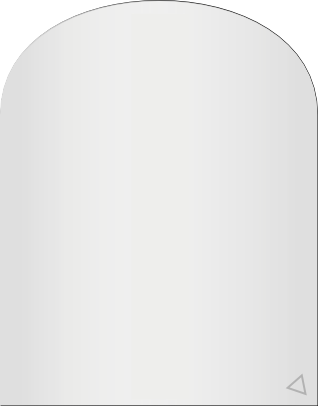
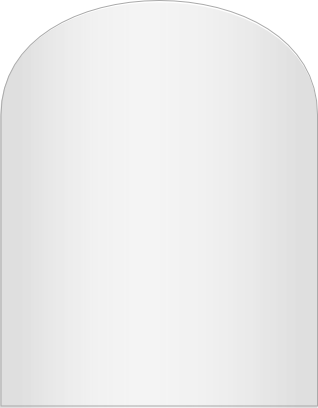
Finish all the ending sequence.

diff --git a/foreverend/levels/level3.py b/foreverend/levels/level3.py
@@ -2,8 +2,9 @@ import math
 
 import pygame
 
-from foreverend.effects import ScreenFlashEffect, FloatEffect, MoveEffect, \
-                               ShakeEffect, SlideHideEffect, SlideShowEffect
+from foreverend.effects import FloatEffect, MoveEffect, ScreenFadeEffect, \
+                               ScreenFlashEffect, ShakeEffect, \
+                               SlideHideEffect, SlideShowEffect
 from foreverend.eventbox import EventBox
 from foreverend.levels.base import Area, Level, TimePeriod
 from foreverend.particles import ExplosionParticleSystem
@@ -244,21 +245,21 @@ class Outside300NE(Level3OutsideArea):
                          floor.rect.top - monolith.rect.height)
 
         # Container
-        container_base = Sprite('300ne/container_base')
-        self.main_layer.add(container_base)
-        container_base.move_to(
-            floor.rect.right - container_base.rect.width - 400,
-            floor.rect.top - container_base.rect.height)
+        self.container_base = Sprite('300ne/container_base')
+        self.main_layer.add(self.container_base)
+        self.container_base.move_to(
+            floor.rect.right - self.container_base.rect.width - 400,
+            floor.rect.top - self.container_base.rect.height)
 
         self.container_bg = Sprite('300ne/container_bg')
         self.bg_layer.add(self.container_bg)
         self.container_bg.move_to(
-            container_base.rect.left +
-            (container_base.rect.width - self.container_bg.rect.width) / 2,
-            container_base.rect.top - self.container_bg.rect.height)
+            self.container_base.rect.left +
+            (self.container_base.rect.width - self.container_bg.rect.width) / 2,
+            self.container_base.rect.top - self.container_bg.rect.height)
 
-        self.level.add_artifact(self, container_base.rect.centerx,
-                                container_base.rect.top)
+        self.level.add_artifact(self, self.container_base.rect.centerx,
+                                self.container_base.rect.top)
 
         self.container = Sprite('300ne/container')
         self.main_layer.add(self.container)
@@ -285,7 +286,8 @@ class Outside300NE(Level3OutsideArea):
         self.main_layer.add(self.level.triangle_key)
         self.level.triangle_key.move_to(
             self.container.rect.right + 100,
-            container_base.rect.bottom - self.level.triangle_key.rect.height)
+            self.container_base.rect.bottom -
+            self.level.triangle_key.rect.height)
 
     def start_end_sequence(self, *args, **kwargs):
         if self.in_end_sequence:
@@ -352,7 +354,8 @@ class Outside300NE(Level3OutsideArea):
         show_effect.timer_ms = 30
         show_effect.total_time_ms = 500
         show_effect.stopped.connect(self.on_container_added)
-        show_effect.start()
+        timer = Timer(700, show_effect.start, one_shot=True)
+        timer.start()
 
     def on_container_added(self):
         player = self.level.engine.player
@@ -405,17 +408,22 @@ class Outside300NE(Level3OutsideArea):
         self.container.rect.bottom = bottom
 
         self.level.artifact.remove()
-        player = self.level.engine.player
-        player.collidable = False
-        player.obey_gravity = False
-        player.velocity = (0, 0)
-        player.direction = Direction.LEFT
-        player.name = 'probe_large'
-        player.update_image()
-        player.move_to(
+        self.level.engine.player.remove()
+
+        self.large_probe = Sprite('probe_large')
+        self.main_layer.add(self.large_probe)
+        self.large_probe.collidable = False
+        self.large_probe.obey_gravity = False
+        self.large_probe.move_to(
             self.container.rect.left +
-            (self.container.rect.width - player.rect.width) / 2,
-            self.container.rect.bottom - 2 * player.rect.height)
+            (self.container.rect.width - self.large_probe.rect.width) / 2,
+            self.container.rect.bottom - 2 * self.large_probe.rect.height)
+
+        # We're going to force updates to get things in the right order.
+        self.container.hide()
+        self.container.show()
+        self.container_base.hide()
+        self.container_base.show()
 
     def prepare_launch(self):
         player = self.level.engine.player
@@ -428,28 +436,34 @@ class Outside300NE(Level3OutsideArea):
         self.explosion.min_angle = -(4 * math.pi) / 3
         self.explosion.max_angle = -(5 * math.pi) / 3
         self.explosion.repeat = True
-        self.explosion.start(self.container.rect.centerx, player.rect.bottom)
+        self.explosion.start(self.container.rect.centerx,
+                             self.large_probe.rect.bottom)
 
-        shake_effect = ShakeEffect(player)
+        shake_effect = ShakeEffect(self.large_probe)
         shake_effect.start()
 
-        timer = Timer(3000, self.launch_probe)
+        timer = Timer(3000, self.launch_probe, one_shot=True)
         timer.start()
 
     def launch_probe(self):
-        player = self.level.engine.player
-        player.velocity = (0, -15)
-        player.moved.connect(self.move_explosion)
+        self.large_probe.velocity = (0, -15)
+        self.large_probe.moved.connect(self.move_explosion)
 
-        timer = Timer(5000, self.probe_launched)
+        timer = Timer(4000, self.probe_launched, one_shot=True)
         timer.start()
 
     def move_explosion(self, dx, dy):
-        player = self.level.engine.player
-        self.explosion.pos = (self.container.rect.centerx, player.rect.bottom)
+        self.explosion.pos = (self.container.rect.centerx,
+                              self.large_probe.rect.bottom)
 
     def probe_launched(self):
-        self.level.engine.show_end_scene()
+        self.explosion.stop()
+        screen_flash_effect = ScreenFadeEffect(self.fg_layer,
+                                               self.level.engine.camera.rect)
+        screen_flash_effect.fade_time_ms = 3000
+        screen_flash_effect.stopped.connect(
+            self.level.engine.show_end_scene)
+        screen_flash_effect.start()
 
 
 class BlueBoxArea(Area):
@@ -535,5 +549,5 @@ class Level3(Level):
             Outside40000000AD(self),
             BlueBoxArea(self),
         ]))
-        self.add(TimePeriod('1NE AD', [Outside1NE(self)]))
-        self.add(TimePeriod('300NE AD', [Outside300NE(self)]))
+        self.add(TimePeriod('1NE', [Outside1NE(self)]))
+        self.add(TimePeriod('300NE', [Outside300NE(self)]))

diff --git a/foreverend/effects.py b/foreverend/effects.py
@@ -46,12 +46,46 @@ class ScreenEffect(Effect):
         self.sprite = Sprite(None)
         self.sprite.image = pygame.Surface(rect.size).convert_alpha()
         self.sprite.move_to(*rect.topleft)
-        layer.add(self.sprite)
+
+        if layer:
+            layer.add(self.sprite)
+
+
+class ScreenFadeEffect(ScreenEffect):
+    def __init__(self, *args, **kwargs):
+        super(ScreenFadeEffect, self).__init__(*args, **kwargs)
+        self.color = (0, 0, 0)
+        self.fade_from_alpha = 0
+        self.fade_to_alpha = 255
+        self.fade_time_ms = 500
+        self.timer_ms = 30
+
+    def pre_start(self):
+        self.sprite.show()
+        self.alpha = self.fade_from_alpha
+        self.alpha_delta = ((self.fade_to_alpha - self.fade_from_alpha) /
+                            (self.fade_time_ms / self.timer_ms))
+        self.sprite.image.fill(
+            (self.color[0], self.color[1], self.color[2], self.alpha))
+
+    def on_tick(self):
+        self.sprite.image.fill(
+            (self.color[0], self.color[1], self.color[2], self.alpha))
+
+        self.alpha += self.alpha_delta
+
+        if ((self.fade_from_alpha > self.fade_to_alpha and
+             self.alpha <= self.fade_to_alpha) or
+            (self.fade_from_alpha < self.fade_to_alpha and
+             self.alpha >= self.fade_to_alpha)):
+            self.stop()
 
 
 class ScreenFlashEffect(ScreenEffect):
     def __init__(self, *args, **kwargs):
         super(ScreenFlashEffect, self).__init__(*args, **kwargs)
+        self.fade_out = True
+        self.color = (255, 255, 255)
 
         self.flash_peaked = Signal()
 
@@ -59,10 +93,15 @@ class ScreenFlashEffect(ScreenEffect):
         self.hit_peak = False
         self.alpha = 100
         self.sprite.show()
-        self.sprite.image.fill((255, 255, 255, 0))
+
+        self._fill(0)
+
+    def _fill(self, alpha):
+        self.sprite.image.fill((self.color[0], self.color[1], self.color[2],
+                                alpha))
 
     def on_tick(self):
-        self.sprite.image.fill((255, 255, 255, self.alpha))
+        self._fill(self.alpha)
 
         if self.hit_peak:
             self.alpha = max(self.alpha - 20, 0)
@@ -72,6 +111,9 @@ class ScreenFlashEffect(ScreenEffect):
         if self.alpha == 255:
             self.hit_peak = True
             self.flash_peaked.emit()
+
+            if not self.fade_out:
+                self.stop()
         elif self.alpha <= 0:
             self.stop()
 
@@ -228,9 +270,6 @@ class SlideShowEffect(TransitionEffect):
         self.orig_y = self.obj.rect.top
         num_steps = self.total_time_ms / self.timer_ms
 
-        print 'orig size: %s, %s' % \
-            (self.orig_image.get_width(), self.orig_image.get_height())
-
         self.dx = self.orig_image.get_width() / num_steps
         self.dy = self.orig_image.get_height()
         self.last_width = 0
@@ -249,10 +288,8 @@ class SlideShowEffect(TransitionEffect):
                                self.orig_image.get_width()),
                            min(self.last_height + self.dy,
                                self.orig_image.get_height()))
-        print rect.width, rect.height
 
         if not self.obj.visible:
-            print 'showing'
             self.obj.show()
 
         if self.direction == Direction.LEFT:

diff --git a/foreverend/cutscenes.py b/foreverend/cutscenes.py
@@ -1,6 +1,8 @@
+import pygame
 from pygame.locals import *
 
 from foreverend import get_engine
+from foreverend.resources import load_image
 from foreverend.signals import Signal
 from foreverend.timer import Timer
 
@@ -19,13 +21,25 @@ class Page(object):
         pass
 
 
-class TextPage(Page):
-    def __init__(self, delay_ms, text):
-        super(TextPage, self).__init__()
-        self.text = text
+class DelayPage(Page):
+    def __init__(self, delay_ms):
+        super(DelayPage, self).__init__()
         self.delay_ms = delay_ms
-        self.widget = None
         self.timer = None
+
+    def start(self):
+        self.timer = Timer(self.delay_ms, self.stop, one_shot=True)
+
+    def stop(self):
+        self.timer.stop()
+        self.done.emit()
+
+
+class TextPage(DelayPage):
+    def __init__(self, delay_ms, text):
+        super(TextPage, self).__init__(delay_ms)
+        self.text = text
+        self.widget = None
 
     def start(self):
         ui_manager = get_engine().ui_manager
@@ -34,12 +48,11 @@ class TextPage(Page):
             for line in self.text.split('\n')
         ])
 
-        self.timer = Timer(self.delay_ms, self.stop, one_shot=True)
+        super(TextPage, self).start()
 
     def stop(self):
-        self.timer.stop()
         self.widget.close()
-        self.done.emit()
+        super(TextPage, self).stop()
 
 
 class Cutscene(object):
@@ -118,3 +131,42 @@ class OpeningCutscene(Cutscene):
             TextPage(4000,
                      'But a probe...'),
         ]
+
+
+class ClosingCutscene(Cutscene):
+    def __init__(self):
+        super(ClosingCutscene, self).__init__()
+        self.earth = load_image('earth.jpg')
+        self.probe = load_image('crashing_probe')
+        self.fade_effect = None
+
+        self.pages = [
+            DelayPage(3000),
+            TextPage(3000, 'Irony.'),
+            TextPage(5000, 'We sought to prevent the greatest tragedy in '
+                           'history, and believed we were capable.'),
+            TextPage(5000, 'Yet, with all our arrogance and '
+                           'short-sightedness, our very creation was the '
+                           'cause of our downfall.'),
+            TextPage(5000, 'We thought we could fix the planet. Fix time.'),
+            TextPage(5000, 'And now we are all sons of bitches.'),
+        ]
+
+
+    def draw(self, surface):
+        if not self.fade_effect:
+            from foreverend.effects import ScreenFadeEffect
+            self.fade_effect = ScreenFadeEffect(
+                None,
+                pygame.Rect(0, 0, surface.get_width(), surface.get_height()))
+            self.fade_effect.fade_from_alpha = 255
+            self.fade_effect.fade_to_alpha = 0
+            self.fade_effect.fade_time_ms = 3000
+            self.fade_effect.start()
+            print 'start'
+
+        surface.fill((0, 0, 0))
+        surface.blit(self.earth,
+                     (surface.get_width() - self.earth.get_width(), 0))
+        surface.blit(self.probe, (150, 60))
+        surface.blit(self.fade_effect.sprite.image, (0, 0))

diff --git a/foreverend/engine.py b/foreverend/engine.py
@@ -2,7 +2,7 @@ import pygame
 from pygame.locals import *
 
 from foreverend import set_engine
-from foreverend.cutscenes import OpeningCutscene
+from foreverend.cutscenes import ClosingCutscene, OpeningCutscene
 from foreverend.levels import get_levels
 from foreverend.signals import Signal
 from foreverend.sprites import Player, TiledSprite
@@ -105,7 +105,11 @@ class ForeverEndEngine(object):
         self.paused = True
 
     def show_end_scene(self):
+        print 'show end scene'
+        self.ui_manager.control_panel.close()
         self.active_level = None
+        self.active_cutscene = ClosingCutscene()
+        self.active_cutscene.start()
 
     def _setup_game(self):
         self.active_cutscene = None
@@ -205,7 +209,8 @@ class ForeverEndEngine(object):
 
     def _paint(self):
         if self.active_cutscene:
-            self.active_cutscene.draw(self.active_cutscene)
+            self.screen.set_clip(None)
+            self.active_cutscene.draw(self.screen)
 
         if self.active_level:
             self.surface.set_clip(self.camera.rect)
